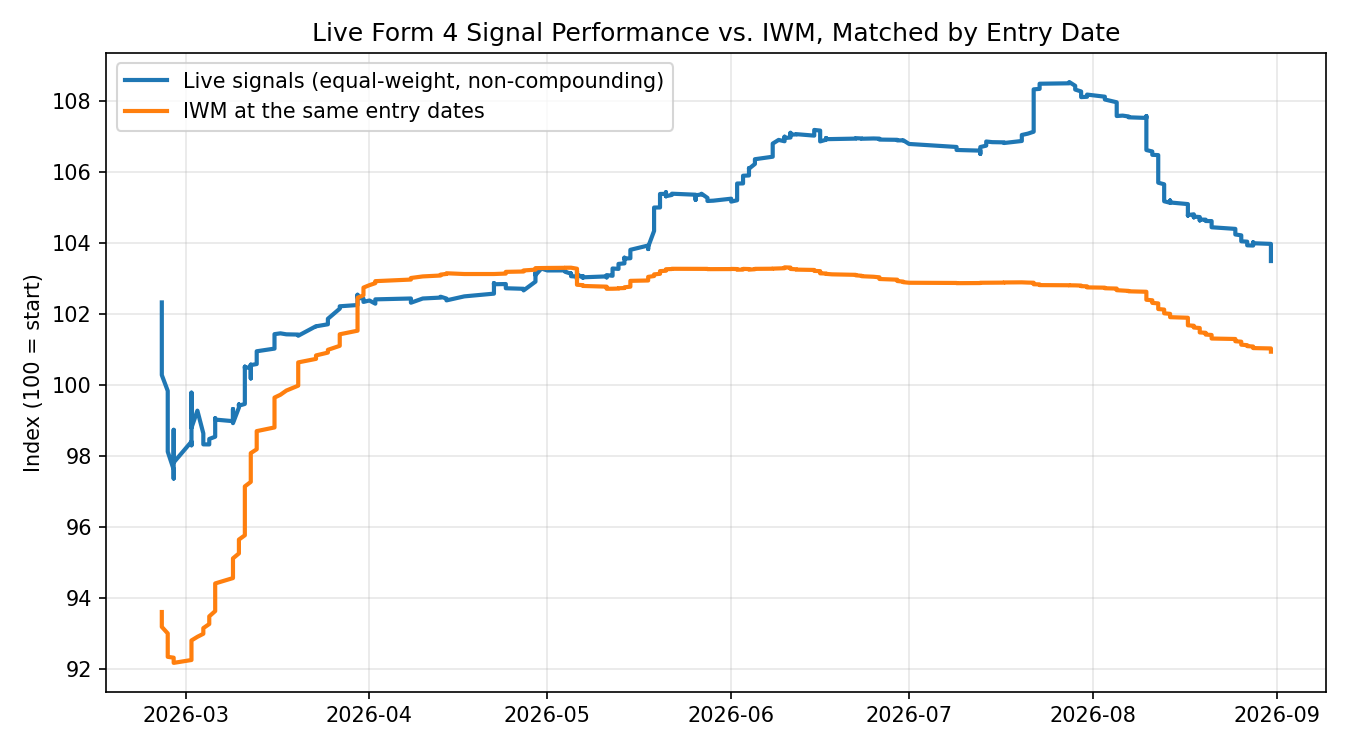
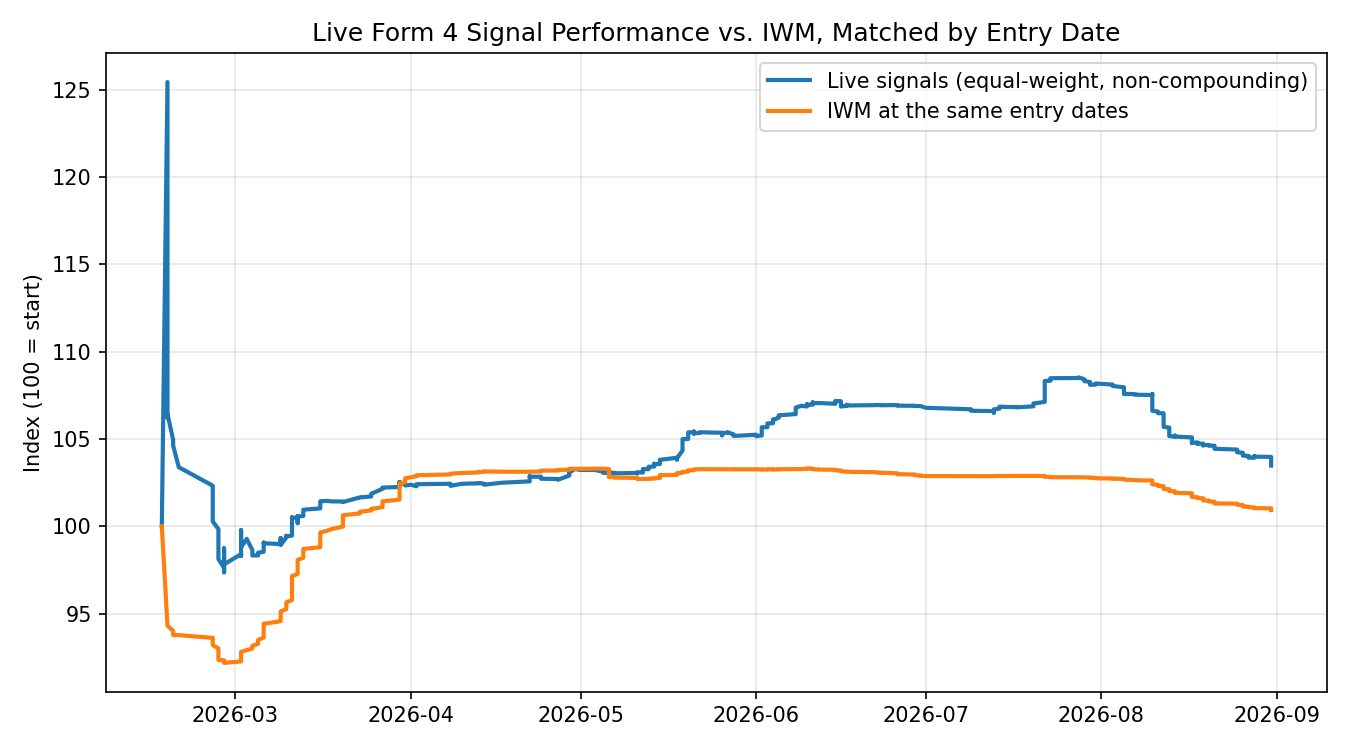
Add process diagrams, fix chart baselines, explain account-level impact
- Add Mermaid flowcharts for both the live signal pipeline and the
  research/training pipeline (data sources, chronological train/held-out
  split, walk-forward backtesting) to the README front page and docs.
- Fix both comparison charts to share one true, non-arbitrary starting
  point (a day-zero anchor before any trade, where 100=100 by definition
  for both lines) instead of independently rebasing each line at a later,
  trimmed point - the previous version could visually start the two lines
  apart even though the underlying numbers were correct.
- Add a section explaining why "+3.7% average return per trade" is
  consistent with the strategy driving the large majority (~86%) of the
  account's real trading profit: capital is recycled across many trades,
  so a modest per-trade edge compounds into a much larger cumulative
  account-level effect.

diff --git a/analysis/compute_performance.py b/analysis/compute_performance.py
@@ -172,7 +172,7 @@ def summarize(scored: pd.DataFrame) -> pd.DataFrame:
     return pd.concat([pd.DataFrame([overall]), monthly_summary], ignore_index=True)
 
 
-def build_chart(scored: pd.DataFrame, out_path: str, burn_in: int = 10) -> None:
+def build_chart(scored: pd.DataFrame, out_path: str) -> None:
     """
     Two lines, both built with the EXACT same method - an expanding mean of
     matched 30-day returns, equal-weighted, non-compounding, indexed to
@@ -186,20 +186,24 @@ def build_chart(scored: pd.DataFrame, out_path: str, burn_in: int = 10) -> None:
         buy-and-hold would mix in market-timing luck from choosing when to
         start holding, which isn't what either line is trying to show.
 
-    Both lines are computed from the FULL expanding mean (starting at signal
-    #1) and only SLICED for display at `burn_in`, not independently rebased
-    to 100 at that point - rebasing each line separately would erase the real
-    gap between them at the point the chart starts, which is exactly the
-    thing this chart exists to show. The first `burn_in` signals are still
-    excluded from the plot itself: an average over only 1-2 samples is
-    dominated by whichever trade happened to come first, producing a sharp,
-    meaningless spike/dip. Full-sample stats in summary_stats.csv are
-    unaffected by this - it only trims the chart.
+    Both lines share one true, non-arbitrary starting point: a day-zero
+    anchor (before any signal existed) where both indices are exactly 100 by
+    definition - zero trades means zero return for both, no data needed to
+    justify it. From there, both are the real, unsmoothed expanding mean; an
+    earlier version instead independently rebased each line to 100 at a
+    later, trimmed starting point, which silently erased the real gap
+    between them (the thing this chart exists to show) and is why that
+    version looked backwards relative to the actual win-rate/alpha numbers.
+    The very first several real points will look noisy - an average of 1-2
+    trades swings a lot - and that noise is genuine, not a bug.
     """
     ordered = scored.sort_values("entry_date").reset_index(drop=True)
     ordered["signal_index"] = 100 * (1 + ordered["return_30d"].expanding().mean())
     ordered["iwm_index"] = 100 * (1 + ordered["iwm_return_30d"].expanding().mean())
-    plotted = ordered.iloc[burn_in:]
+
+    anchor_date = ordered["entry_date"].iloc[0] - pd.Timedelta(days=1)
+    anchor = pd.DataFrame({"entry_date": [anchor_date], "signal_index": [100.0], "iwm_index": [100.0]})
+    plotted = pd.concat([anchor, ordered[["entry_date", "signal_index", "iwm_index"]]], ignore_index=True)
 
     fig, ax = plt.subplots(figsize=(9, 5))
     ax.plot(plotted["entry_date"], plotted["signal_index"], label="Live signals (equal-weight, non-compounding)", linewidth=2)

diff --git a/README.md b/README.md
@@ -10,6 +10,63 @@ live service since launch. It's intentionally general — the specific filter
 thresholds, scoring weights, and model parameters that make the strategy work
 are not included.
 
+### Live signal pipeline
+
+```mermaid
+flowchart TD
+    A[SEC Form 4 Filings] --> B[EDGAR Full-Text Search]
+    B --> C["Submissions API<br/>(insider filing history)"]
+    C --> D[Filing XML Parser]
+    D --> E["Structural Filter<br/>(open-market purchases only)"]
+    E --> F[Market-Cap / Listing-Age Gate]
+    F --> G["Insider Win-Rate Gate<br/>(vs. Russell 2000)"]
+    G --> H((Signal Emitted))
+    H --> I["Trading System<br/>(separate project)"]
+
+    classDef data fill:#e8f0fe,stroke:#4285f4,color:#1a1a1a;
+    classDef filt fill:#e6f4ea,stroke:#34a853,color:#1a1a1a;
+    classDef out fill:#fef7e0,stroke:#fbbc04,color:#1a1a1a;
+    class A,B,C,D data;
+    class E,F,G filt;
+    class H,I out;
+```
+
+See [architecture.md](docs/architecture.md) for what each stage actually does.
+
+### Research & training pipeline
+
+```mermaid
+flowchart TD
+    D1[Bulk SEC EDGAR<br/>Form 4 Filings] --> FE[Feature Engineering]
+    D2[Daily Price History<br/>Yahoo Finance] --> FE
+
+    FE --> TRAIN["Training Period<br/>(earlier years)"]
+    FE --> HOLD["Held-Out Year<br/>(never trained on)"]
+
+    TRAIN --> MODEL[Model Training]
+    MODEL --> WF["Walk-Forward Backtesting<br/>(expanding window, repeated)"]
+
+    WF --> BT[Backtest Simulation]
+    HOLD --> BT
+    BT --> BEST[Best Strategy Selected]
+    BEST --> LIVE[Deployed to Live Signal Service]
+
+    classDef data fill:#e8f0fe,stroke:#4285f4,color:#1a1a1a;
+    classDef train fill:#fce8e6,stroke:#ea4335,color:#1a1a1a;
+    classDef val fill:#e6f4ea,stroke:#34a853,color:#1a1a1a;
+    classDef out fill:#fef7e0,stroke:#fbbc04,color:#1a1a1a;
+    class D1,D2,FE data;
+    class TRAIN,MODEL,WF train;
+    class HOLD,BT val;
+    class BEST,LIVE out;
+```
+
+The held-out year is never used in training or in the walk-forward loop — a
+final, one-time check on a stretch of time the model never learned from. See
+[methodology.md](docs/methodology.md) for the full explanation, including
+what "walk-forward" means here and a research-integrity note about a
+look-ahead bug that was caught and fixed.
+
 ## Headline result
 
 Since launch (2026-02-17), **116 real executed trades** (reconstructed from

diff --git a/docs/performance.md b/docs/performance.md
@@ -38,8 +38,11 @@ which asset was bought.
 ![Real trades vs IWM](../assets/real_trades_chart.png)
 
 Both lines use the same method — a dollar-weighted expanding average of
-matched returns, on a common scale (100 = 0% average return so far) — so
-they're directly comparable at every point, not just at the end.
+matched returns — and both start at exactly 100 on the same real date: the
+day before the first trade, where "zero trades, zero return" is true for
+both by definition, not fitted to the data. From there they're the real,
+unsmoothed numbers, so the early section will look noisy (an average of 1-2
+trades swings a lot) — that's genuine small-sample behavior, not an error.
 
 Only percentage returns are published here. No dollar amounts, account
 balances, or individual trade records (tickers, dates, position sizes) are
@@ -56,6 +59,25 @@ buying something already held), and rejection/ban handling when a broker
 declines an order. Most emitted signals don't survive all of that — which is
 exactly why the "raw signal quality" numbers below shouldn't be read as "what
 the account did."
+
+### Why "+3.7% average per trade" looks smaller than the account's actual gain
+
+The account runs two strategies (see [architecture.md](architecture.md)):
+this one, and an unrelated second strategy trading a completely different
+universe of tickers. Comparing realized profit between the two, **this
+strategy accounts for roughly 86% of the account's total realized trading
+profit** over the same period — it's the dominant driver, not a minor
+contributor.
+
+That's not in tension with a modest "+3.7% average per trade" — they're
+different units. The account's capital gets *reused*: the same dollars close
+one 30-day position and open another, over and over, 116 times across 92
+tickers over ~7 months. A modest edge repeated that many times compounds into
+a real cumulative effect on the account far larger than any single trade's
+average return would suggest. "Average return per trade" and "total realized
+contribution to the account" are both honest numbers — they just answer
+different questions, and only the second one is comparable to "the account is
+up X% and most of that is this strategy."
 
 ## Raw signal quality (for context)
 

diff --git a/docs/methodology.md b/docs/methodology.md
@@ -6,6 +6,49 @@ years of historical insider-trading data to figure out which signals are
 actually worth following, and to stress-test the live rule before it's
 trusted with real decisions.
 
+## Process overview
+
+```mermaid
+flowchart TD
+    subgraph SRC[" "]
+        D1[Bulk SEC EDGAR<br/>Form 4 Filings]
+        D2[Daily Price History<br/>Yahoo Finance]
+    end
+
+    D1 --> FE[Feature Engineering]
+    D2 --> FE
+
+    FE --> TRAIN["Training Period<br/>(earlier years)"]
+    FE --> HOLD["Held-Out Year<br/>(never trained on)"]
+
+    TRAIN --> MODEL[Model Training]
+    MODEL --> WF["Walk-Forward Backtesting<br/>(expanding window, repeated)"]
+
+    WF --> BT[Backtest Simulation]
+    HOLD --> BT
+    BT --> BEST[Best Strategy Selected]
+    BEST --> LIVE[Deployed to Live Signal Service]
+
+    classDef data fill:#e8f0fe,stroke:#4285f4,color:#1a1a1a;
+    classDef train fill:#fce8e6,stroke:#ea4335,color:#1a1a1a;
+    classDef val fill:#e6f4ea,stroke:#34a853,color:#1a1a1a;
+    classDef out fill:#fef7e0,stroke:#fbbc04,color:#1a1a1a;
+    class D1,D2,FE data;
+    class TRAIN,MODEL,WF train;
+    class HOLD,BT val;
+    class BEST,LIVE out;
+```
+
+The **held-out year** is never seen during training or during the
+walk-forward loop — it exists purely as a final, one-time check on a stretch
+of time the model had no opportunity to learn from. The **walk-forward
+backtesting** loop is the "expanding window" mentioned above: train on an
+initial period, validate on the period right after it, then expand the
+training window to include that period and validate on the next one, and so
+on — a repeated, rolling process rather than a single train/test split. This
+catches a strategy that only works in one specific historical regime, which a
+single split could miss.
+
 ## Data
 
 The research pipeline is built on multi-year SEC EDGAR bulk Form 4 data —

diff --git a/docs/architecture.md b/docs/architecture.md
@@ -2,29 +2,23 @@
 
 ## Pipeline
 
-```
-SEC EDGAR full-text search (new Form 4 filings, filed today)
-        │
-        ▼
-SEC EDGAR submissions API (per-insider filing history, paginated)
-        │
-        ▼
-SEC EDGAR raw filing XML (parsed for transaction details)
-        │
-        ▼
-Structural filter — keep only open-market purchases
-        │
-        ▼
-Market-cap / listing-age gate (via public market data)
-        │
-        ▼
-Insider historical win-rate gate
-        │
-        ▼
-Signal emitted
-        │
-        ▼
-Trading system (separate, not part of this repo)
+```mermaid
+flowchart TD
+    A[SEC Form 4 Filings] --> B["EDGAR Full-Text Search<br/>(filed today)"]
+    B --> C["Submissions API<br/>(per-insider filing history, paginated)"]
+    C --> D["Raw Filing XML<br/>(parsed for transaction details)"]
+    D --> E["Structural Filter<br/>(open-market purchases only)"]
+    E --> F["Market-Cap / Listing-Age Gate<br/>(public market data)"]
+    F --> G[Insider Historical Win-Rate Gate]
+    G --> H((Signal Emitted))
+    H --> I["Trading System<br/>(separate, not part of this repo)"]
+
+    classDef data fill:#e8f0fe,stroke:#4285f4,color:#1a1a1a;
+    classDef filt fill:#e6f4ea,stroke:#34a853,color:#1a1a1a;
+    classDef out fill:#fef7e0,stroke:#fbbc04,color:#1a1a1a;
+    class A,B,C,D data;
+    class E,F,G filt;
+    class H,I out;
 ```
 
 Every price, market-cap, and benchmark figure used anywhere in this
